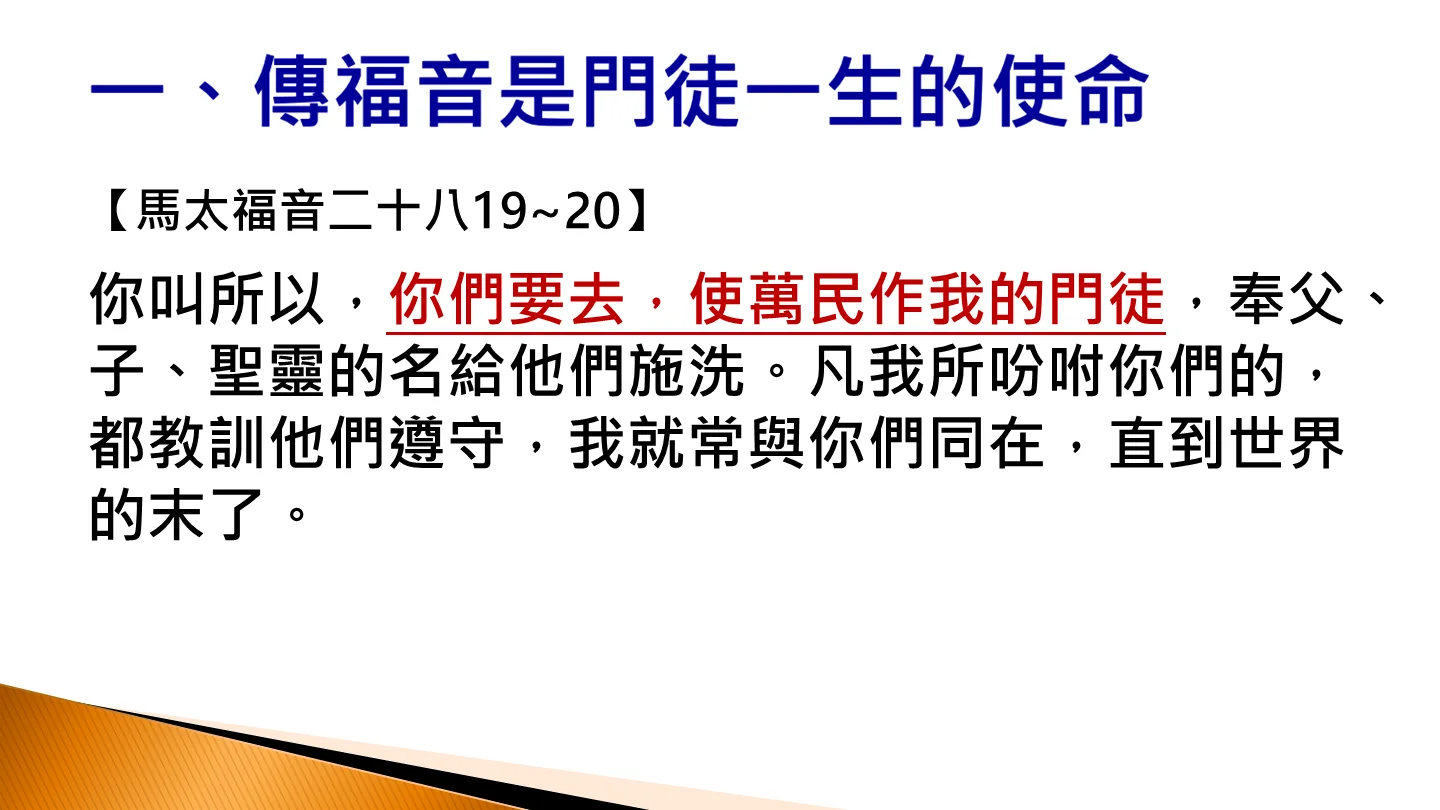
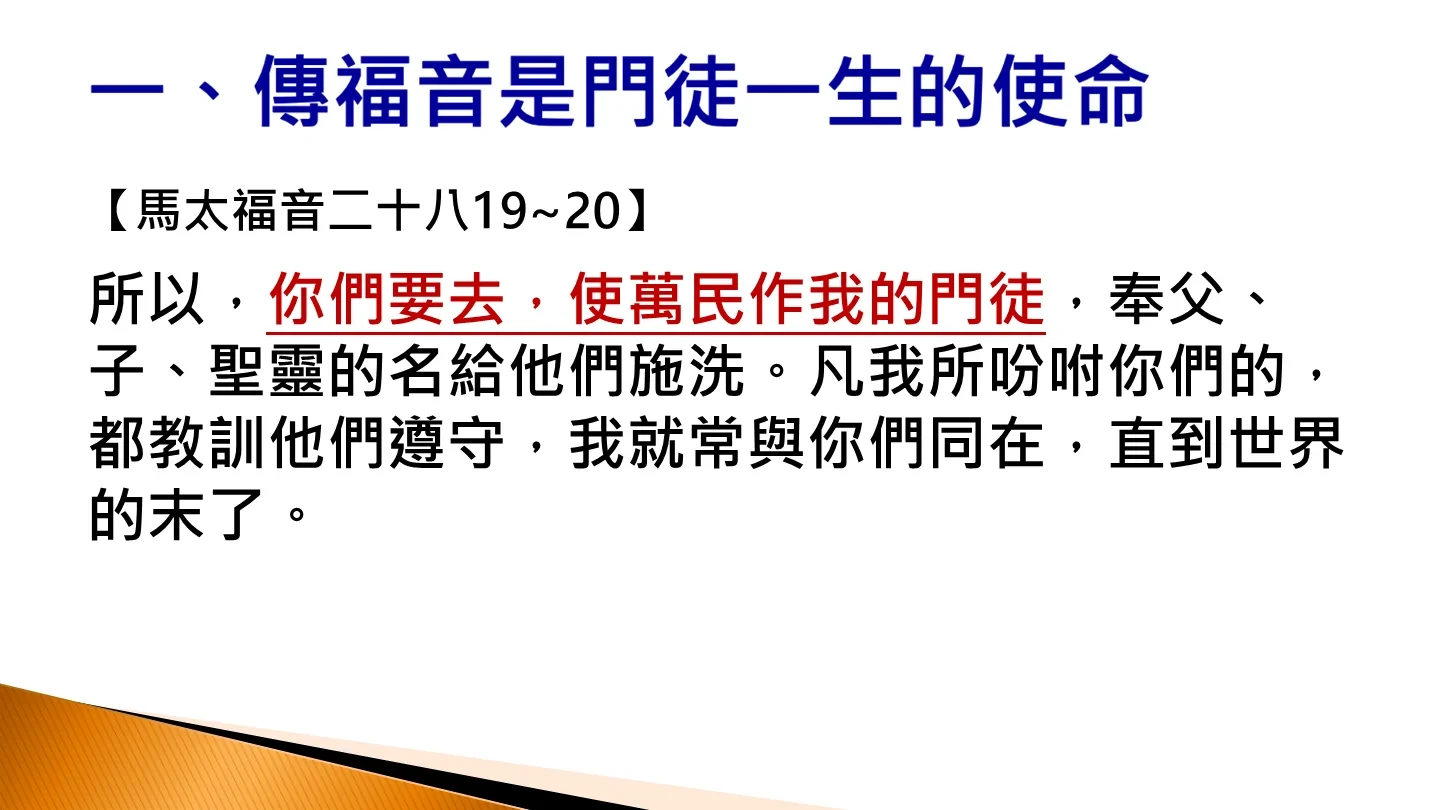
fix(slides): remove accidental '你叫' from lesson 5 slide 3

Changed region(s): [[0.0625, 0.3395, 0.9375, 0.4321]]

diff --git a/js/data.js b/js/data.js
@@ -2887,10 +2887,10 @@ window.BLESS_EQ_DATA = [
         "slideIndex": 3,
         "image": "assets/slides/05/slide_3.webp",
         "textLines": [
-          "【馬太福音二十八19~20】\r你叫所以，你們要去，使萬民作我的門徒，奉父、子、聖靈的名給他們施洗。凡我所吩咐你們的，都教訓他們遵守，我就常與你們同在，直到世界的末了。"
+          "【馬太福音二十八19~20】\r所以，你們要去，使萬民作我的門徒，奉父、子、聖靈的名給他們施洗。凡我所吩咐你們的，都教訓他們遵守，我就常與你們同在，直到世界的末了。"
         ],
         "notes": "",
-        "title": "【馬太福音二十八19~20】\r你叫所以，你們要去，使萬民作我的門徒，奉父、子、聖靈的名給他們施洗。凡我所吩咐你們的，都教訓他們遵守，我就常與你們同在，直到世界的末了。"
+        "title": "【馬太福音二十八19~20】\r所以，你們要去，使萬民作我的門徒，奉父、子、聖靈的名給他們施洗。凡我所吩咐你們的，都教訓他們遵守，我就常與你們同在，直到世界的末了。"
       },
       {
         "slideIndex": 4,

diff --git a/sw.js b/sw.js
@@ -4,7 +4,7 @@
  * for the 20-lesson Blessed Discipleship Training Platform.
  */
 
-const CACHE_NAME = 'blesseq-v14-complete-optimization';
+const CACHE_NAME = 'blesseq-v15-slide-fix';
 const CORE_ASSETS = [
   './',
   'index.html',
